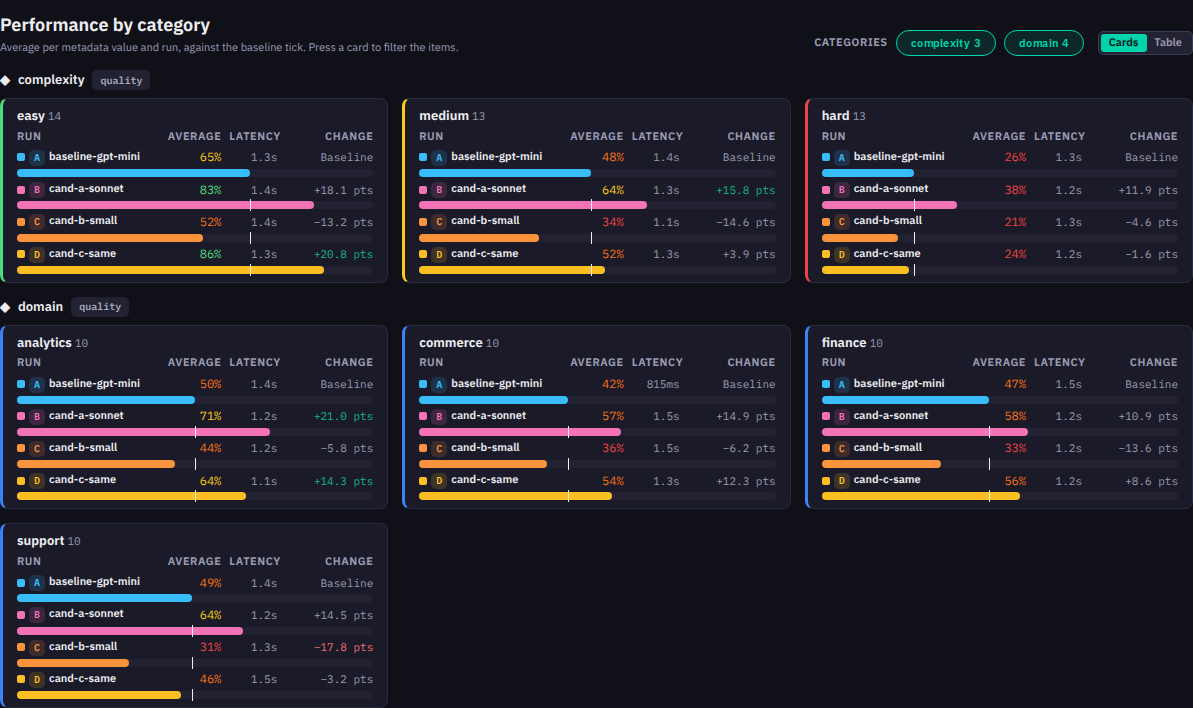
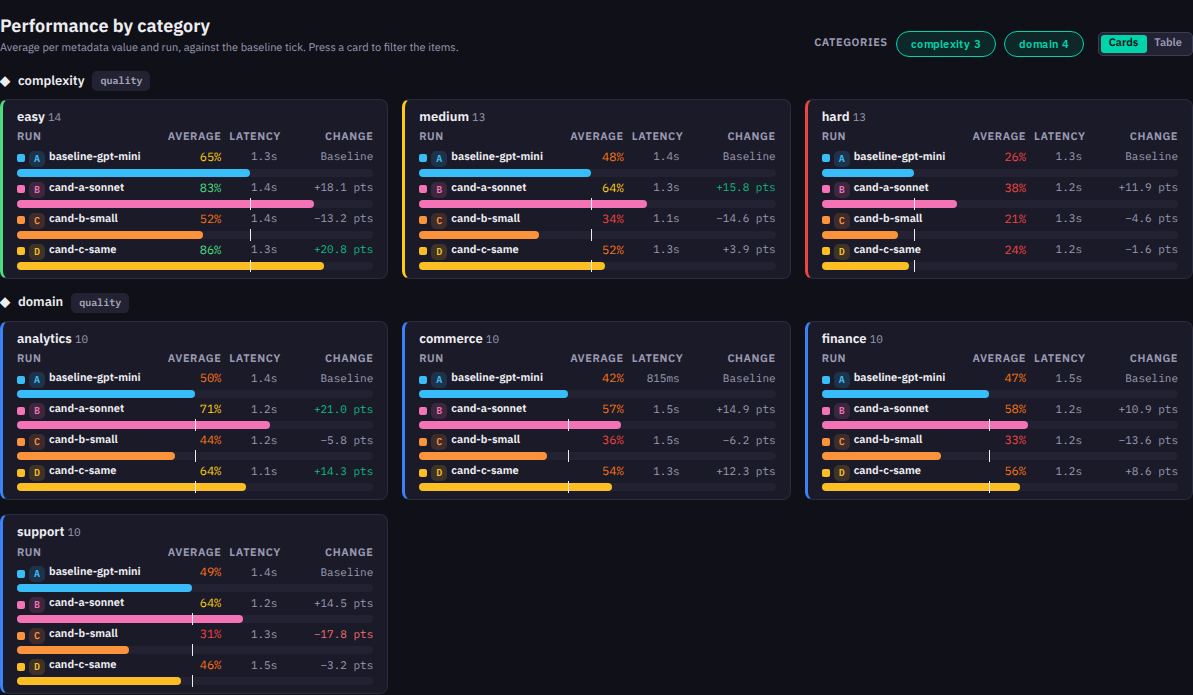
fix(compare): Escape closes Filters from the button, Change vs baseline field, inline pass slider, 27 px category rows, spec amendments tightened

diff --git a/frontend/src/features/compare/components/items/FilterBuilder.tsx b/frontend/src/features/compare/components/items/FilterBuilder.tsx
@@ -2,6 +2,7 @@
 import { Button, IconButton, MultiSelect, ScopeChips, SegmentedControl, Select, Text, TextField } from '@/ui';
 import { useScope } from '../../hooks/useScope';
 import { useCompare } from '../../CompareContext';
+import { columnName } from '../../lib/columnName';
 import {
   conditionHasValue,
   emptyGroup,
@@ -51,16 +52,21 @@ function replaceAt(
   };
 }
 
+/** Pseudo field key: "Change vs baseline" is the page's baseline filter (per run and metric), edited in its own row. */
+const CHANGE_FIELD = '__change_vs_baseline';
+
 function Condition({
   node,
   path,
   defs,
   onChange,
+  onPickChange,
 }: {
   node: FilterCondition;
   path: number[];
   defs: Map<string, FieldDef>;
   onChange: (path: number[], fn: (n: FilterNode) => FilterNode | null) => void;
+  onPickChange: (path: number[]) => void;
 }) {
   const field = defs.get(node.field) ?? null;
   const list = Array.from(defs.values());
@@ -78,8 +84,15 @@ function Condition({
         value={field?.id ?? null}
         placeholder="Choose field…"
         searchable="auto"
-        onChange={(k) => k && onChange(path, () => defaultCondition(defs.get(String(k)) ?? null))}
-        items={list.map((d) => ({ key: d.id, label: `${d.group} · ${d.label}` }))}
+        onChange={(k) => {
+          if (!k) return;
+          if (String(k) === CHANGE_FIELD) onPickChange(path);
+          else onChange(path, () => defaultCondition(defs.get(String(k)) ?? null));
+        }}
+        items={[
+          ...list.map((d) => ({ key: d.id, label: `${d.group} · ${d.label}` })),
+          { key: CHANGE_FIELD, label: 'Comparison · Change vs baseline' },
+        ]}
         width={200}
       />
       {field ? (
@@ -188,11 +201,13 @@ function Group({
   path,
   defs,
   onChange,
+  onPickChange,
 }: {
   node: FilterGroup;
   path: number[];
   defs: Map<string, FieldDef>;
   onChange: (path: number[], fn: (n: FilterNode) => FilterNode | null) => void;
+  onPickChange: (path: number[]) => void;
 }) {
   return (
     <div
@@ -225,9 +240,9 @@ function Group({
       </div>
       {node.children.map((child, i) =>
         isFilterGroup(child) ? (
-          <Group key={i} node={child} path={[...path, i]} defs={defs} onChange={onChange} />
+          <Group key={i} node={child} path={[...path, i]} defs={defs} onChange={onChange} onPickChange={onPickChange} />
         ) : (
-          <Condition key={i} node={child} path={[...path, i]} defs={defs} onChange={onChange} />
+          <Condition key={i} node={child} path={[...path, i]} defs={defs} onChange={onChange} onPickChange={onPickChange} />
         ),
       )}
       <div className={styles.add}>
@@ -260,8 +275,72 @@ function Group({
   );
 }
 
+/** The "Change vs baseline" rule: which run, on which metric, improved / regressed / unchanged against the baseline. */
+function ChangeRow() {
+  const { c, model, columns, baseline } = useCompare();
+  const f = c.view.filters.baseline;
+  if (!f) return null;
+  const candidates = columns.filter((col) => col.key !== baseline.key);
+  const set = (patch: Partial<NonNullable<typeof f>>) =>
+    c.setView({ filters: { ...c.view.filters, baseline: { ...f, baselineKey: baseline.key, ...patch } } });
+  return (
+    <div className={styles.cond} data-testid="filter-change-rule" role="group" aria-label="Change vs baseline">
+      <Text variant="sm" tone="muted">
+        Change vs baseline
+      </Text>
+      <Select
+        label="Run"
+        hideLabel
+        value={f.columnKey}
+        onChange={(k) => k && set({ columnKey: String(k) })}
+        items={candidates.map((col) => ({ key: col.key, label: columnName(model, col) }))}
+        width={200}
+      />
+      <Select
+        label="Metric"
+        hideLabel
+        value={f.metric}
+        onChange={(k) => k && set({ metric: String(k) })}
+        items={model.metrics.map((m) => ({ key: m, label: m }))}
+        width={140}
+      />
+      <Select
+        label="Change"
+        hideLabel
+        value={f.kind}
+        onChange={(k) => k && set({ kind: String(k) as typeof f.kind })}
+        items={[
+          { key: 'improved', label: 'improved' },
+          { key: 'regressed', label: 'regressed' },
+          { key: 'same', label: 'unchanged' },
+        ]}
+        width={140}
+      />
+      <IconButton
+        label="Delete change rule"
+        icon="trash"
+        tone="danger"
+        onPress={() => c.setView({ filters: { ...c.view.filters, baseline: null } })}
+      />
+    </div>
+  );
+}
+
 export function FilterBuilder({ onClose }: { onClose?: () => void }) {
-  const { defs, c } = useCompare();
+  const { defs, c, columns, baseline, metric } = useCompare();
+  // The placeholder condition becomes the page's baseline filter in one update (two updates would overwrite each other).
+  const pickChange = (path: number[]) => {
+    const first = columns.find((col) => col.key !== baseline.key);
+    c.setView({
+      filters: {
+        ...c.view.filters,
+        rules: replaceAt(c.view.filters.rules, path, () => null),
+        baseline:
+          c.view.filters.baseline ??
+          (first ? { metric, columnKey: first.key, baselineKey: baseline.key, kind: 'improved' } : null),
+      },
+    });
+  };
   const scope = useScope();
   const map = new Map(defs.map((d) => [d.id, d]));
   const rules = c.view.filters.rules;
@@ -301,7 +380,8 @@ export function FilterBuilder({ onClose }: { onClose?: () => void }) {
           </div>
         ) : null}
       </div>
-      <Group node={rules} path={[]} defs={map} onChange={onChange} />
+      <ChangeRow />
+      <Group node={rules} path={[]} defs={map} onChange={onChange} onPickChange={pickChange} />
     </section>
   );
 }

diff --git a/frontend/e2e/compare/r8-items.spec.ts b/frontend/e2e/compare/r8-items.spec.ts
@@ -287,3 +287,45 @@ test('C-row-7: the pager says 1-20 of 40 items, 24 px controls, 20 per page', as
   await expect(pager).toContainText(/21[-–]40 of 40 items/);
   await expect(part(page, 'item-row')).toHaveCount(20);
 });
+
+test('C-items-5 (fix F1): Escape closes the Filters panel while the focus is still on the Filters button', async ({ page }) => {
+  await openCompare(page, s.four, 1440);
+  const btn = part(page, 'items-filters-btn');
+  await btn.click(); // the focus stays on the button after a click
+  await expect(part(page, 'filter-builder')).toBeVisible();
+  await expect(btn).toBeFocused();
+  await page.keyboard.press('Escape');
+  await expect(part(page, 'filter-builder')).toHaveCount(0);
+  await expect(btn).toBeFocused();
+  await btn.focus();
+  await page.keyboard.press('Enter');
+  await expect(part(page, 'filter-builder')).toBeVisible();
+  await page.keyboard.press('Escape');
+  await expect(part(page, 'filter-builder')).toHaveCount(0);
+});
+
+test('C-items-6 (fix F2): "+ Condition" offers Change vs baseline per run and metric, and it filters like the count buttons', async ({
+  page,
+}) => {
+  await openCompare(page, s.four, 1440);
+  await part(page, 'items-filters-btn').click();
+  const panel = part(page, 'filter-builder');
+  await panel.getByRole('button', { name: '+ Condition' }).click();
+  await panel.getByTestId('filter-condition').first().getByRole('button', { name: /field|Choose/i }).click();
+  await page.getByRole('option', { name: 'Comparison · Change vs baseline' }).click();
+  const rule = panel.getByTestId('filter-change-rule');
+  await expect(rule).toBeVisible();
+  await expect(panel.getByTestId('filter-condition')).toHaveCount(0);
+  await expect(page.getByRole('button', { name: /^Filters/ })).toContainText('1');
+  // first candidate run, the page metric, improved: the count the averages show
+  await expect(part(page, 'items-count')).toHaveText(/^\d+ of 40 items$/);
+  await expect(part(page, 'items-count')).not.toHaveText('40 of 40 items');
+  await expect(part(page, 'baseline-delta-banner')).toContainText('improved');
+  // change the run and the verdict from the rule row
+  await rule.getByRole('button', { name: /Change$/ }).click();
+  await page.getByRole('option', { name: 'regressed' }).click();
+  await expect(part(page, 'baseline-delta-banner')).toContainText('regressed');
+  await rule.getByRole('button', { name: 'Delete change rule' }).click();
+  await expectShown(page, 40);
+  await expect(rule).toHaveCount(0);
+});

diff --git a/frontend/src/features/compare/components/items/ItemsSection.tsx b/frontend/src/features/compare/components/items/ItemsSection.tsx
@@ -1,5 +1,5 @@
 /** The item-by-item section: baseline-delta banner, one-row toolbar, inline filter panel, run key, the card list. */
-import { useMemo, useState } from 'react';
+import { useEffect, useMemo, useState } from 'react';
 import { Button, EmptyState, Icon, Popover, ReportLayout } from '@/ui';
 import { useMediaQuery } from '@/features/shell';
 import { HIDDEN_METADATA_KEYS } from '@/features/run-detail/lib/rowMeta';
@@ -48,6 +48,18 @@ export function ItemsSection() {
   // The facet list is opened from the toolbar and never on its own (owner decision H2).
   const [facets, setFacets] = useState(false);
   const [panel, setPanel] = useState(() => c.view.filters.rules.children.length > 0);
+  // Escape closes the inline Filters panel wherever the focus is (on the button after a click, inside the panel, on the page);
+  // a popover or listbox that handles Escape first has already stopped the event.
+  useEffect(() => {
+    if (!panel) return undefined;
+    const onKey = (e: KeyboardEvent) => {
+      if (e.key !== 'Escape' || e.defaultPrevented) return;
+      setPanel(false);
+      document.querySelector<HTMLElement>('[data-part=items-filters-btn]')?.focus();
+    };
+    document.addEventListener('keydown', onKey);
+    return () => document.removeEventListener('keydown', onKey);
+  }, [panel]);
   if (model.alignment.status !== 'aligned')
     return (
       <EmptyState

diff --git a/frontend/e2e/compare/r8-sweep.spec.ts b/frontend/e2e/compare/r8-sweep.spec.ts
@@ -37,7 +37,7 @@ test('C-sw-2: the verdict is a badge, a title and an evidence line over a 3 px e
   await open(page, 1440);
   const v = part(page, 'sweep-verdict');
   await expect(v.getByText(/Improved|Regressed|Within noise/)).toBeVisible();
-  expect((await box(v)).h).toBeLessThanOrEqual(80); // amended from 70: the evidence line wraps at 1193
+  expect((await box(v)).h).toBeLessThanOrEqual(70);
   const title = await v.locator('[data-part="sweep-verdict-title"]').evaluate((e) => ({ s: getComputedStyle(e).fontSize, w: getComputedStyle(e).fontWeight }));
   expect(title.s).toBe('13px');
   expect(Number(title.w)).toBe(650);
@@ -101,7 +101,7 @@ test('C-sw-5/6: the metadata table has 31 px rows; seven outcome cards of 56 wit
   await expect(table.locator('thead th').first()).toBeVisible();
   const cards = part(page, 'sweep-outcome-cards').locator('> *');
   await expect(cards).toHaveCount(7);
-  for (const c of await cards.all()) within((await box(c)).h, 62, 8, 'outcome card (amended from 56: labels wrap to two lines)');
+  for (const c of await cards.all()) within((await box(c)).h, 56, 2, 'outcome card');
   const improved = part(page, 'sweep-outcome-cards').getByRole('button', { name: /Improved$/ });
   const value = await improved.locator('b').evaluate((e) => ({ f: getComputedStyle(e).fontFamily, c: getComputedStyle(e).color }));
   expect(value.f).toMatch(/mono/i);

diff --git a/frontend/e2e/compare/r8-runs.spec.ts b/frontend/e2e/compare/r8-runs.spec.ts
@@ -69,7 +69,7 @@ test('C-run-1: 4-up at 1440, 2-up at 1024, 1-up at 390; the same card at any run
     within((await box(cards.first())).w, cardW, tol, `card width at ${w}`);
   }
   await openCompare(page, s.four, 1440);
-  within((await box(part(page, 'run-card').first())).h, 242, 4, 'card height (amended: letter badge wraps the baseline name)');
+  within((await box(part(page, 'run-card').first())).h, 239, 4, 'card height');
   await openCompare(page, s.eight, 1440);
   const hs = await part(page, 'run-card').evaluateAll((els) => els.map((e) => Math.round(e.getBoundingClientRect().height)));
   expect(Math.max(...hs) - Math.min(...hs)).toBeLessThanOrEqual(4);
@@ -80,6 +80,7 @@ test('C-run-2/3/4: card head, stat strip and the six meta rows', async ({ page }
   await openCompare(page, s.four, 1440);
   const card = part(page, 'run-card').first();
   await expect(card.locator('[data-part="run-name"]')).toBeVisible();
+  expect(Number(await card.locator('[data-part="run-name"]').evaluate((e) => getComputedStyle(e.lastElementChild!).fontWeight))).toBe(650);
   await expect(card.locator('[data-part="baseline-tag"]')).toHaveCount(1);
   await expect(part(page, 'run-card').nth(1).locator('[data-part="baseline-tag"]')).toHaveCount(0);
   within((await box(card.locator('[data-part="run-status"] > *'))).h, 20, 2, 'status badge');

diff --git a/frontend/e2e/compare/r8-categories-errors.spec.ts b/frontend/e2e/compare/r8-categories-errors.spec.ts
@@ -39,7 +39,7 @@ test('C-cat-2/3/4: 3-up cards with a value rail, a header row, run rows with a r
   const cards = part(page, 'category-card');
   await expect(cards).toHaveCount(3);
   within((await box(cards.first())).w, 388, 3, 'card width');
-  within((await box(cards.first())).h, 185, 4, 'card height (4 runs)');
+  within((await box(cards.first())).h, 179, 4, 'card height (4 runs)');
   const tops = await cards.evaluateAll((els) => new Set(els.map((e) => Math.round(e.getBoundingClientRect().y))).size);
   expect(tops).toBe(1);
   // rails: easy score-4, medium score-3, hard score-1
@@ -63,7 +63,7 @@ test('C-cat-2/3/4: 3-up cards with a value rail, a header row, run rows with a r
   // rows
   const rows = easy.locator('[data-part="category-run-row"]');
   await expect(rows).toHaveCount(4);
-  within((await box(rows.first())).h, 27, 2, 'run row');
+  within((await box(rows.first())).h, 27, 1.5, 'run row');
   const track = rows.nth(1).locator('[data-part="category-track"]');
   within((await box(track)).h, 8, 1, 'bar');
   const fill = await track.locator('span').first().evaluate((e) => getComputedStyle(e).backgroundColor);

diff --git a/frontend/e2e/compare/r8-overview.spec.ts b/frontend/e2e/compare/r8-overview.spec.ts
@@ -21,8 +21,9 @@ test('C-ov-1: the pass slider and the metric tabs sit in the head on one centre 
   await expect(tabs).toBeVisible();
   within((await box(tabs)).h, 24, 1, 'tabs height');
   const centre = async (l: Locator) => (await box(l)).y + (await box(l)).h / 2;
-  // the slider block is a label over a track (43 high, amended: not 24); its centre line is the tabs' centre line
+  // the slider is inline in the head: label, value and track on one 24 px line, centred with the tabs
   const block = slider.locator('xpath=ancestor::*[contains(@class,"lider")][1]');
+  within((await box(block)).h, 24, 1, 'slider block height');
   within(await centre(tabs), await centre(block), 1, 'one centre line');
   // metric tabs: correct -> URL and the stat values change
   const stat = () => part(page, 'stat-grid').innerText();

diff --git a/frontend/src/features/compare/components/panel/Overview.module.css b/frontend/src/features/compare/components/panel/Overview.module.css
@@ -213,3 +213,23 @@
   color: var(--text-muted);
   font-size: var(--font-sm);
 }
+
+/* The pass threshold sits inline in the head (legacy L21): label and value, then the track, one 24 px line. */
+.passSlider.passSlider {
+  display: flex;
+  flex-direction: row;
+  align-items: center;
+  gap: var(--space-sm);
+  min-block-size: 24px;
+}
+
+.passSlider.passSlider > :first-child {
+  flex: none;
+  gap: var(--space-sm);
+  justify-content: flex-start;
+}
+
+.passSlider.passSlider > :last-child {
+  flex: 1 1 6rem;
+  min-inline-size: 6rem;
+}

diff --git a/frontend/src/features/compare/components/sweep/SweepView.tsx b/frontend/src/features/compare/components/sweep/SweepView.tsx
@@ -577,7 +577,7 @@ export function SweepView() {
                 })}
                 <div className={styles.outcome}>
                   <b>{summary.counts.avgAttemptsDelta.toFixed(2)}</b>
-                  <span>Avg {'Δ'} attempts / item</span>
+                  <span title="Average change in attempts per item">Avg {'Δ'} attempts</span>
                 </div>
               </div>
             </section>

diff --git a/frontend/src/features/compare/components/panel/CategoryCards.module.css b/frontend/src/features/compare/components/panel/CategoryCards.module.css
@@ -56,7 +56,7 @@
 .row {
   display: grid;
   grid-template-columns: minmax(0, 1fr) 3.5rem 3rem 5.5rem;
-  align-items: baseline;
+  align-items: center;
   gap: 0 var(--space-sm);
 }
 
@@ -167,4 +167,9 @@
   .row > .muted {
     display: none;
   }
+}
+
+/* the run name keeps the compact line height here: 27 px rows (C-cat-4) */
+.row > [data-part='run-name'] {
+  line-height: 1.4;
 }

diff --git a/frontend/src/features/compare/components/panel/OverviewTab.tsx b/frontend/src/features/compare/components/panel/OverviewTab.tsx
@@ -26,7 +26,8 @@ export function OverviewControls() {
         minValue={5}
         maxValue={100}
         step={5}
-        width="8rem"
+        width="16rem"
+        className={styles.passSlider}
         defaultValue={Math.round(ctx.threshold * 100)}
         onChangeEnd={(v) => c.setThreshold(metric, v / 100)}
       />

diff --git a/frontend/src/features/compare/components/RunTag.module.css b/frontend/src/features/compare/components/RunTag.module.css
@@ -45,7 +45,7 @@
 .name {
   min-width: 0;
   overflow-wrap: anywhere;
-  font-weight: 600;
+  font-weight: 650;
 }
 
 .baselineTag {
